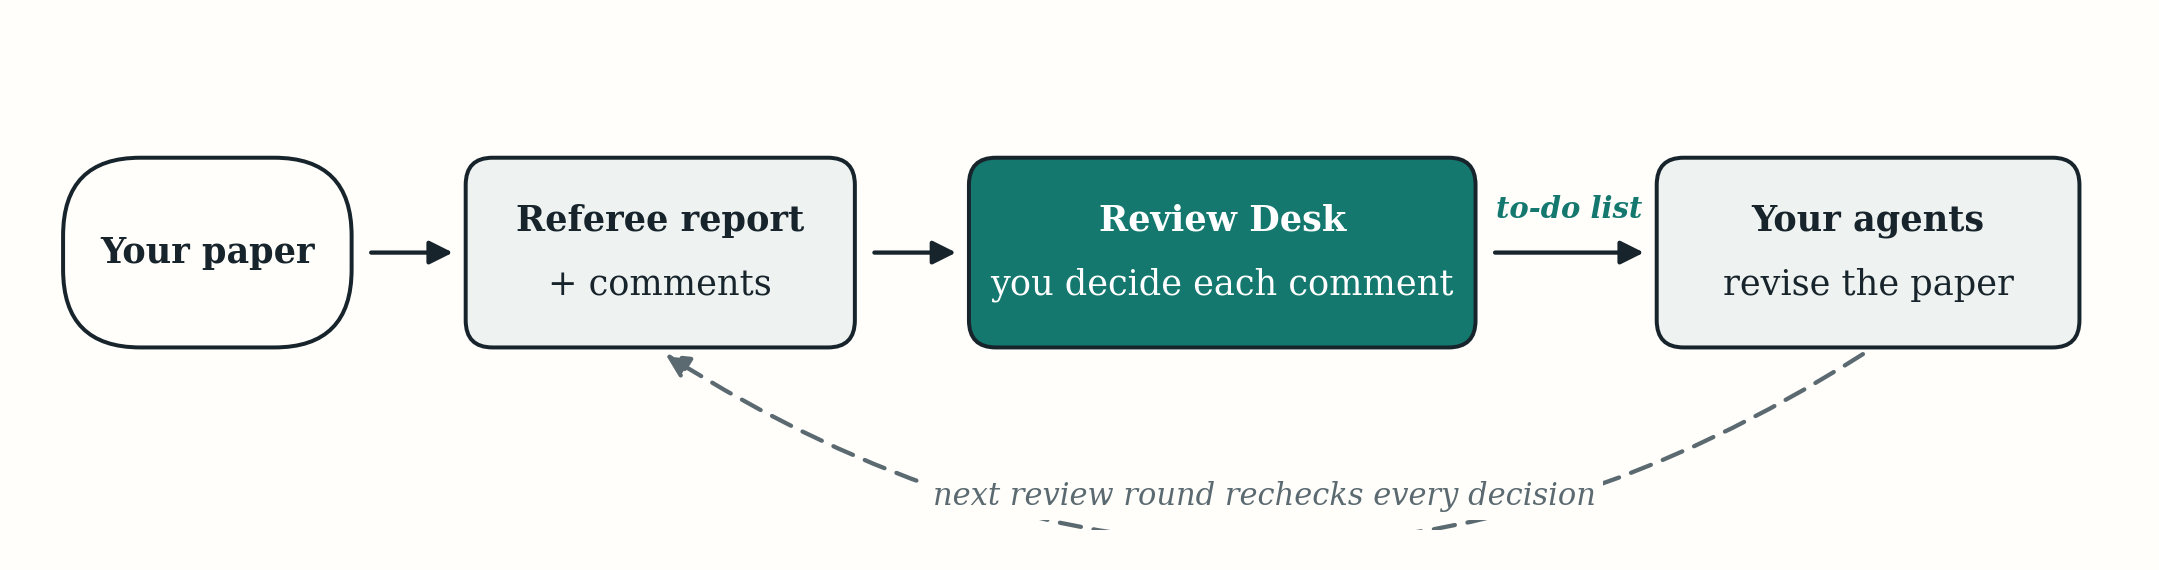
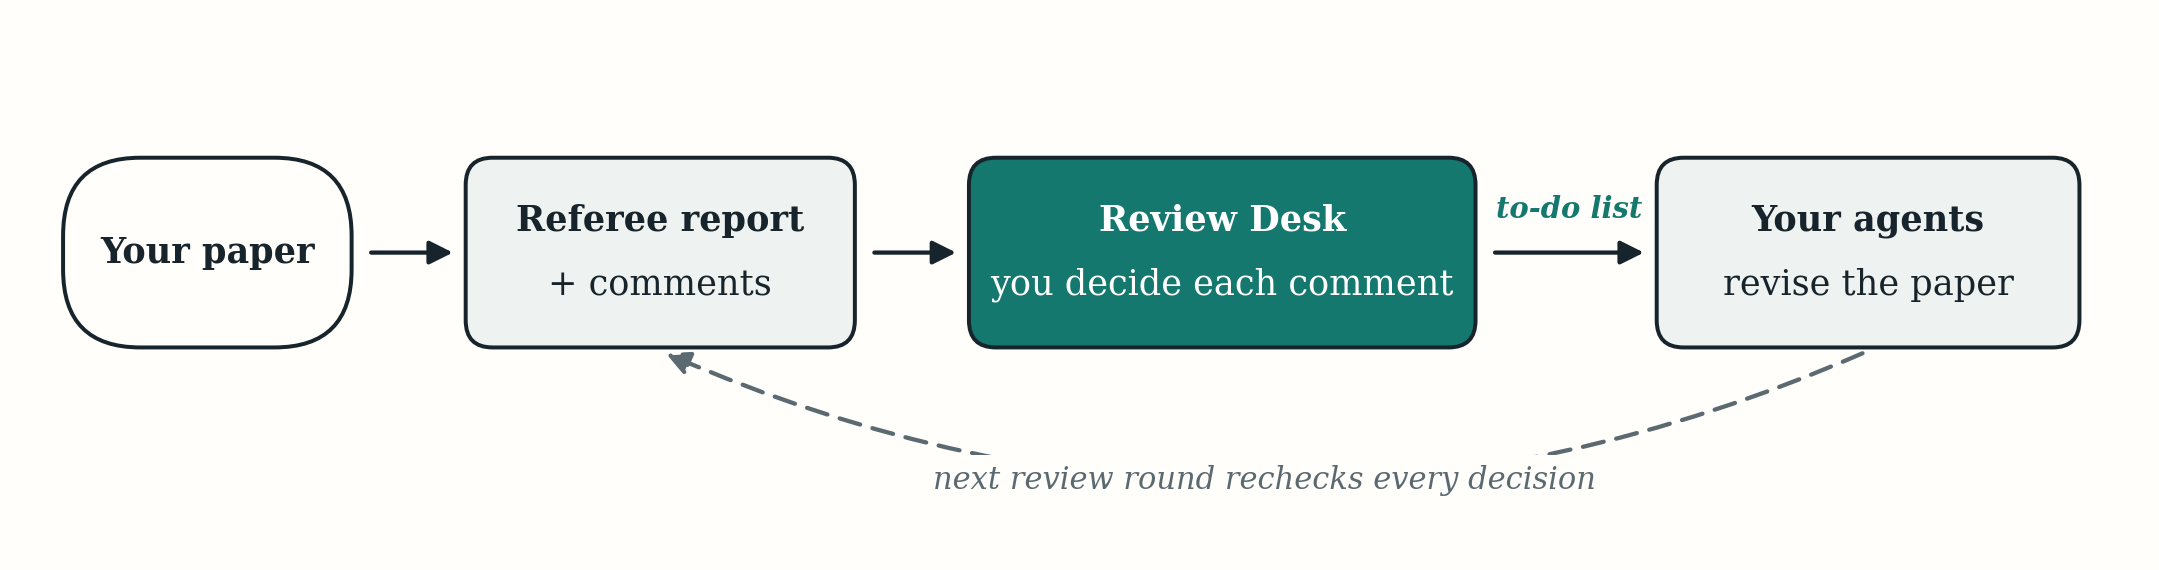
Add sample-report link to the top, fix flow-chart clipping, reorder Desk section
Chart first with the workflow steps, walkthrough GIF after; the return arc
now stays inside the canvas.

diff --git a/README.md b/README.md
@@ -10,6 +10,8 @@
 
 *Built for economics. Also works well for finance, accounting, political economy, and other social science papers that rest on data, causal inference, or formal models.*
 
+**[Read a sample referee report →](docs/sample-review/paper-review.pdf)**
+
 ## What you get
 
 A finished review lands in a clean `review/` folder next to your paper:
@@ -116,16 +118,16 @@ It won't write your paper, estimate your acceptance odds, or invent citations. W
 
 ## The Review Desk (optional)
 
-![Review Desk walkthrough: read the referee report, jump to a comment, decide it, and hand off the revision plan](docs/images/review-desk.gif)
-
 A local web viewer that turns a long review into a decided, trackable revision plan:
+
+![Review workflow: your paper becomes a referee report, you decide each comment in Review Desk, your agents revise from the to-do list, and the next round rechecks every decision](docs/images/review-desk-flow.png)
 
 1. **Read the report first.** The Desk opens on the referee report, and every concern links straight to its detailed comment.
 2. **Decide each comment.** Read it beside its manuscript evidence, add your instruction or disagreement, set your own P0/P1/P2 priority, and make one clear decision — keep it **Open**, mark it **Ready for review** after a change or reasoned response, or **Set aside**.
 3. **Hand off the plan.** The Desk assembles your decisions into a prioritized to-do list and a structured response template for your agents.
 4. **Close the loop.** The next review round checks every carried decision and runs a fresh full-paper sweep for new problems.
 
-![Review workflow: your paper becomes a referee report, you decide each comment in Review Desk, your agents revise from the to-do list, and the next round rechecks every decision](docs/images/review-desk-flow.png)
+![Review Desk walkthrough: read the referee report, jump to a comment, decide it, and hand off the revision plan](docs/images/review-desk.gif)
 
 Everything stays on your machine — no uploads or accounts.
 